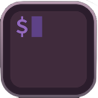
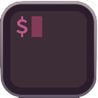
Site redesign

Changed region(s): [[0.1531, 0.1531, 0.4286, 0.398]]

diff --git a/src/styles.css b/src/styles.css
@@ -5,13 +5,14 @@
     --layer-0: #39293b;
     --layer-1: #302231;
     --layer-2: #271828;
+    --mango: #FFBCB4;
     --primary-300: #b682b9;
-    --primary-400: #9c6f9f;
-    --primary-600: #674769;
+    --primary-400: #b67086;
+    --primary-600: #694756;
     --warning: #f9cd5f;
-    --blue: #8179cd;
-    --blue-bright: #968df0;
-    --foreground: #ffe3e3;
+    --blue: #D25B97;
+    --blue-bright: #EA56A0;
+    --foreground: #FFD6D2;
     --monospace: "Fira Code", monospace;
     --sans-serif: "Source Sans Pro", sans-serif;
 
@@ -33,7 +34,7 @@ html {
 }
 
 p {
-    color: var(--primary-400);
+    color: var(--mango);
     max-width: 450px;
     text-align: center;
 }
@@ -47,6 +48,7 @@ button:focus-visible {
 }
 
 .content-layer {
+    /* border: 2px solid #553434; */
     position: relative;
     border-radius: 6px;
     background-color: var(--layer-1);
@@ -91,7 +93,8 @@ button:focus-visible {
     display: flex;
     color: var(--warning);
     font-weight: bold;
-    margin: 1.5rem 0;
+    margin: 0;
+    margin-bottom: 1.5rem;
 }
 
 .colors-warning img {
@@ -116,10 +119,16 @@ section.full-width {
 }
 
 .title-svg {
-    margin-top: 2rem;
+    margin-bottom: 0rem;
+}
+
+.mango-svg {
+    margin-bottom: 2rem;
+    margin-top: 3.5rem;
 }
 
 .ports-container {
+    margin-top: 3rem;
     margin: 1rem 0;
     display: flex;
 }
@@ -133,10 +142,11 @@ section.full-width {
     padding: 1rem 2rem;
     cursor: pointer;
     transition: 200ms ease background-color;
+    text-decoration: none;
 }
 
 .ports-link:hover {
-    background-color: #362e43;
+    background-color: #432E40;
 }
 
 .ports-link:hover .ports-link__img {
@@ -148,7 +158,7 @@ section.full-width {
 }
 
 .ports-link:hover .ports-link__version {
-    color: var(--primary-300);
+    color: #A34C4F;
 }
 
 .ports-link__img {
@@ -167,7 +177,7 @@ section.full-width {
 }
 
 .ports-link__version {
-    color: var(--primary-600);
+    color: #723B3C;
     font-size: var(--text-md);
     transition: 200ms ease color;
 }
@@ -239,7 +249,7 @@ section.full-width {
 }
 
 .color-button:hover {
-    background-color: var(--layer-0);
+    background-color: #432E40;
 }
 
 .color-button__name {
@@ -348,8 +358,8 @@ section.full-width {
 
 .color-group__header {
     text-align: center;
-    border: 1px solid var(--primary-600);
-    border-radius: 60px;
+    /* border-bottom: 1px solid var(--primary-600); */
+    /* border-radius: 60px; */
     width: 100%;
     box-sizing: border-box;
     padding: 0.4rem 0;
@@ -360,6 +370,7 @@ section.full-width {
 }
 
 footer {
+    margin-top: 2rem;
     color: var(--primary-400);
     margin-bottom: 2rem;
 }

diff --git a/build.js b/build.js
@@ -67,6 +67,7 @@ copyFiles("src", "dist", [
     "*.js",
     "*.svg",
     "*.png",
+    "CNAME",
     "/favicons/*",
 ])
     .then(() => {
